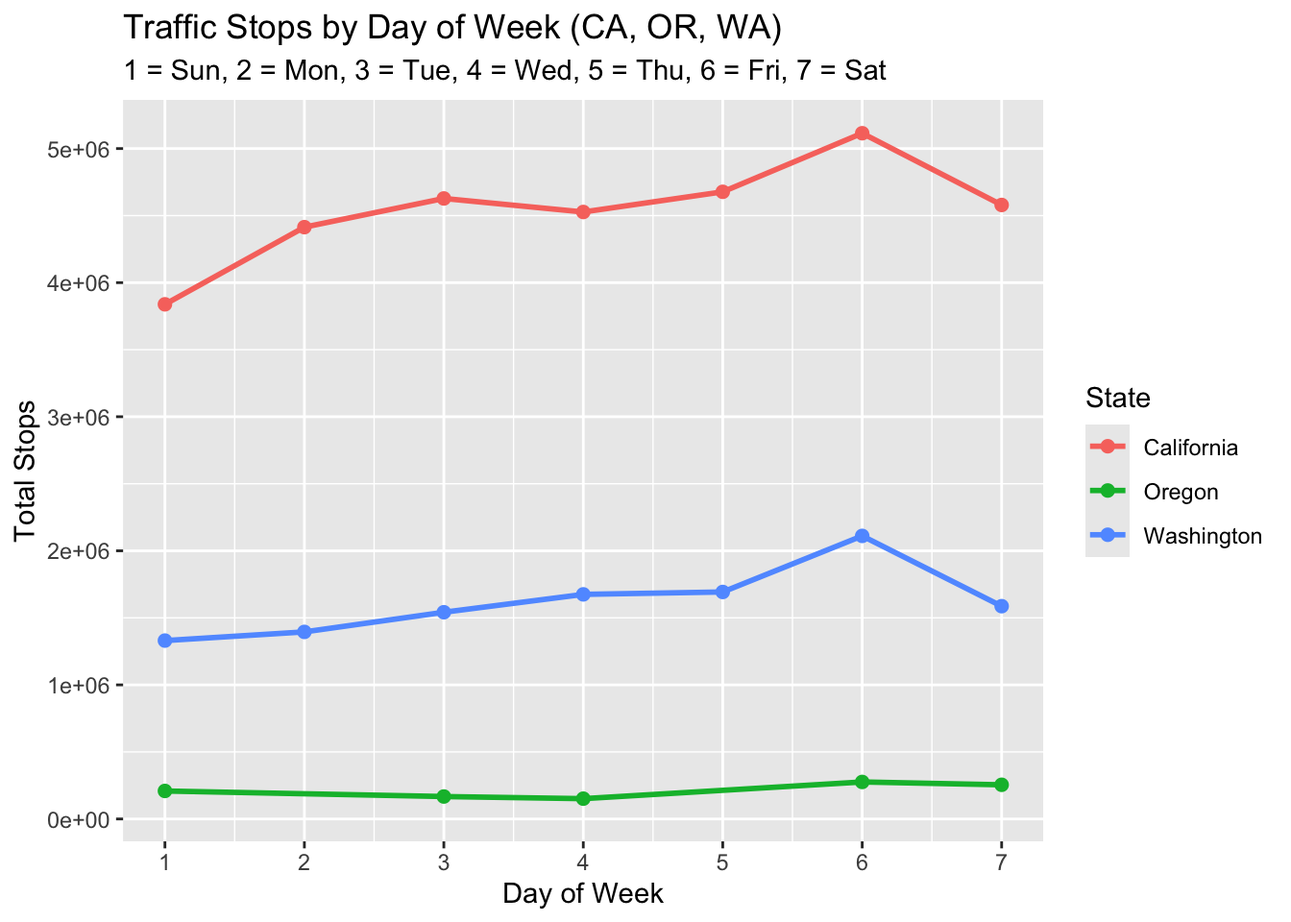
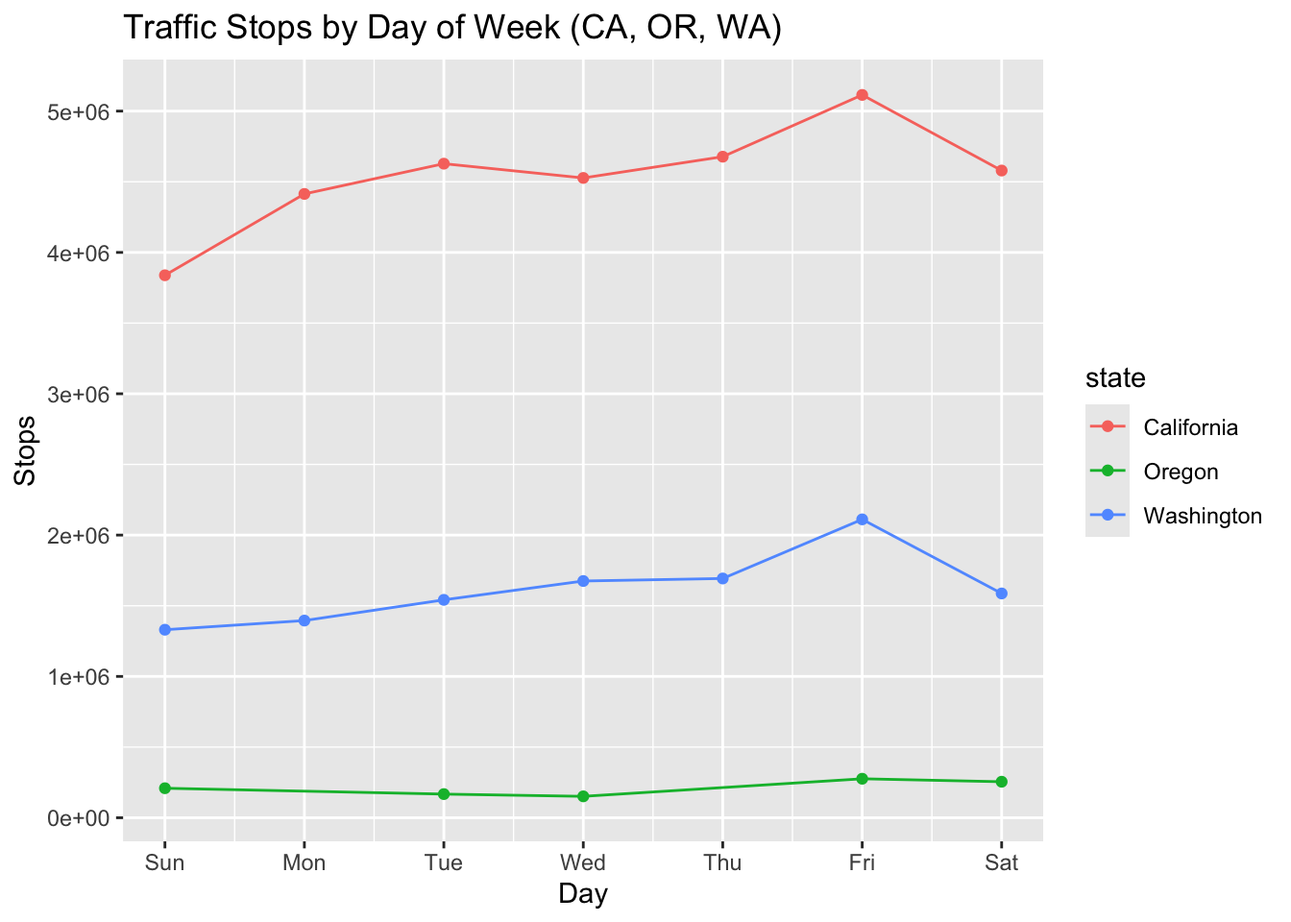
f

diff --git a/docs/traffic_stops.html b/docs/traffic_stops.html
@@ -77,7 +77,7 @@ pre > code.sourceCode > span > a:first-child::before { text-decoration: underlin
 <link href="site_libs/quarto-html/quarto-syntax-highlighting-ea1d7ac60288e0f1efdbc993fd8432ae.css" rel="stylesheet" id="quarto-text-highlighting-styles">
 <script src="site_libs/bootstrap/bootstrap.min.js"></script>
 <link href="site_libs/bootstrap/bootstrap-icons.css" rel="stylesheet">
-<link href="site_libs/bootstrap/bootstrap-5b8f9b2f3cffee265242a5d44fbb1e00.min.css" rel="stylesheet" append-hash="true" id="quarto-bootstrap" data-mode="light">
+<link href="site_libs/bootstrap/bootstrap-f93c2b1f3f0577f377aefa4848a86a36.min.css" rel="stylesheet" append-hash="true" id="quarto-bootstrap" data-mode="light">
 <script id="quarto-search-options" type="application/json">{
   "location": "navbar",
   "copy-button": false,
@@ -229,6 +229,7 @@ pre > code.sourceCode > span > a:first-child::before { text-decoration: underlin
 <span id="cb2-6"><a href="#cb2-6" aria-hidden="true" tabindex="-1"></a>  <span class="at">password =</span> <span class="fu">Sys.getenv</span>(<span class="st">"TRAFFIC_PWD"</span>)</span>
 <span id="cb2-7"><a href="#cb2-7" aria-hidden="true" tabindex="-1"></a>)</span></code></pre></div><button title="Copy to Clipboard" class="code-copy-button"><i class="bi"></i></button></div>
 </div>
+<p>First, we print a list of all available tables in this data set so we can choose which ones to analyse</p>
 <div class="cell">
 <div class="code-copy-outer-scaffold"><div class="sourceCode cell-code" id="cb3"><pre class="sourceCode r code-with-copy"><code class="sourceCode r"><span id="cb3-1"><a href="#cb3-1" aria-hidden="true" tabindex="-1"></a>DBI<span class="sc">::</span><span class="fu">dbListTables</span>(con_traffic)</span></code></pre></div><button title="Copy to Clipboard" class="code-copy-button"><i class="bi"></i></button></div>
 <div class="cell-output cell-output-stdout">
@@ -1010,56 +1011,47 @@ pre > code.sourceCode > span > a:first-child::before { text-decoration: underlin
 </table>
 </div>
 </div>
-<p>With all of this information, we now need to join these 3 tables so we can do our west coast analysis.</p>
+<p>With all of this information, we now need to union these 3 tables so we can do our west coast analysis.</p>
 <div class="cell" data-output.var="ca_or_wa_weekday">
-<div class="code-copy-outer-scaffold"><div class="sourceCode cell-code" id="cb11"><pre class="sourceCode sql code-with-copy"><code class="sourceCode sql"><span id="cb11-1"><a href="#cb11-1" aria-hidden="true" tabindex="-1"></a>  <span class="kw">SELECT</span></span>
-<span id="cb11-2"><a href="#cb11-2" aria-hidden="true" tabindex="-1"></a>      <span class="st">'California'</span> <span class="kw">AS</span> state,</span>
-<span id="cb11-3"><a href="#cb11-3" aria-hidden="true" tabindex="-1"></a>      DAYOFWEEK(<span class="dt">date</span>) <span class="kw">AS</span> weekday,</span>
-<span id="cb11-4"><a href="#cb11-4" aria-hidden="true" tabindex="-1"></a>      <span class="fu">COUNT</span>(<span class="op">*</span>) <span class="kw">AS</span> total_stops</span>
-<span id="cb11-5"><a href="#cb11-5" aria-hidden="true" tabindex="-1"></a>  <span class="kw">FROM</span> ca_statewide_2023_01_26</span>
-<span id="cb11-6"><a href="#cb11-6" aria-hidden="true" tabindex="-1"></a>  <span class="kw">WHERE</span> <span class="kw">type</span> <span class="op">=</span> <span class="st">'vehicular'</span></span>
-<span id="cb11-7"><a href="#cb11-7" aria-hidden="true" tabindex="-1"></a>  <span class="kw">GROUP</span> <span class="kw">BY</span> state, DAYOFWEEK(<span class="dt">date</span>)</span>
-<span id="cb11-8"><a href="#cb11-8" aria-hidden="true" tabindex="-1"></a></span>
-<span id="cb11-9"><a href="#cb11-9" aria-hidden="true" tabindex="-1"></a>  <span class="kw">UNION</span> <span class="kw">ALL</span></span>
-<span id="cb11-10"><a href="#cb11-10" aria-hidden="true" tabindex="-1"></a></span>
-<span id="cb11-11"><a href="#cb11-11" aria-hidden="true" tabindex="-1"></a>  <span class="kw">SELECT</span></span>
-<span id="cb11-12"><a href="#cb11-12" aria-hidden="true" tabindex="-1"></a>      <span class="st">'Oregon'</span> <span class="kw">AS</span> state,</span>
-<span id="cb11-13"><a href="#cb11-13" aria-hidden="true" tabindex="-1"></a>      DAYOFWEEK(<span class="dt">date</span>) <span class="kw">AS</span> weekday,</span>
-<span id="cb11-14"><a href="#cb11-14" aria-hidden="true" tabindex="-1"></a>      <span class="fu">COUNT</span>(<span class="op">*</span>) <span class="kw">AS</span> total_stops</span>
-<span id="cb11-15"><a href="#cb11-15" aria-hidden="true" tabindex="-1"></a>  <span class="kw">FROM</span> or_statewide_2020_04_01</span>
-<span id="cb11-16"><a href="#cb11-16" aria-hidden="true" tabindex="-1"></a>  <span class="kw">WHERE</span> <span class="kw">type</span> <span class="op">=</span> <span class="st">'vehicular'</span></span>
-<span id="cb11-17"><a href="#cb11-17" aria-hidden="true" tabindex="-1"></a>  <span class="kw">GROUP</span> <span class="kw">BY</span> state, DAYOFWEEK(<span class="dt">date</span>)</span>
-<span id="cb11-18"><a href="#cb11-18" aria-hidden="true" tabindex="-1"></a></span>
-<span id="cb11-19"><a href="#cb11-19" aria-hidden="true" tabindex="-1"></a>  <span class="kw">UNION</span> <span class="kw">ALL</span></span>
-<span id="cb11-20"><a href="#cb11-20" aria-hidden="true" tabindex="-1"></a></span>
-<span id="cb11-21"><a href="#cb11-21" aria-hidden="true" tabindex="-1"></a>  <span class="kw">SELECT</span></span>
-<span id="cb11-22"><a href="#cb11-22" aria-hidden="true" tabindex="-1"></a>      <span class="st">'Washington'</span> <span class="kw">AS</span> state,</span>
-<span id="cb11-23"><a href="#cb11-23" aria-hidden="true" tabindex="-1"></a>      DAYOFWEEK(<span class="dt">date</span>) <span class="kw">AS</span> weekday,</span>
-<span id="cb11-24"><a href="#cb11-24" aria-hidden="true" tabindex="-1"></a>      <span class="fu">COUNT</span>(<span class="op">*</span>) <span class="kw">AS</span> total_stops</span>
-<span id="cb11-25"><a href="#cb11-25" aria-hidden="true" tabindex="-1"></a>  <span class="kw">FROM</span> wa_statewide_2020_04_01</span>
-<span id="cb11-26"><a href="#cb11-26" aria-hidden="true" tabindex="-1"></a>  <span class="kw">WHERE</span> <span class="kw">type</span> <span class="op">=</span> <span class="st">'vehicular'</span></span>
-<span id="cb11-27"><a href="#cb11-27" aria-hidden="true" tabindex="-1"></a>  <span class="kw">GROUP</span> <span class="kw">BY</span> state, DAYOFWEEK(<span class="dt">date</span>)</span>
-<span id="cb11-28"><a href="#cb11-28" aria-hidden="true" tabindex="-1"></a></span>
-<span id="cb11-29"><a href="#cb11-29" aria-hidden="true" tabindex="-1"></a>  <span class="kw">ORDER</span> <span class="kw">BY</span> weekday, state;</span></code></pre></div><button title="Copy to Clipboard" class="code-copy-button"><i class="bi"></i></button></div>
+<div class="code-copy-outer-scaffold"><div class="sourceCode cell-code" id="cb11"><pre class="sourceCode sql code-with-copy"><code class="sourceCode sql"><span id="cb11-1"><a href="#cb11-1" aria-hidden="true" tabindex="-1"></a><span class="kw">SELECT</span> <span class="st">'California'</span> <span class="kw">AS</span> state,</span>
+<span id="cb11-2"><a href="#cb11-2" aria-hidden="true" tabindex="-1"></a>       DAYOFWEEK(<span class="dt">date</span>) <span class="kw">AS</span> weekday,</span>
+<span id="cb11-3"><a href="#cb11-3" aria-hidden="true" tabindex="-1"></a>       <span class="fu">COUNT</span>(<span class="op">*</span>) <span class="kw">AS</span> total_stops</span>
+<span id="cb11-4"><a href="#cb11-4" aria-hidden="true" tabindex="-1"></a><span class="kw">FROM</span> ca_statewide_2023_01_26</span>
+<span id="cb11-5"><a href="#cb11-5" aria-hidden="true" tabindex="-1"></a><span class="kw">WHERE</span> <span class="kw">type</span> <span class="op">=</span> <span class="st">'vehicular'</span></span>
+<span id="cb11-6"><a href="#cb11-6" aria-hidden="true" tabindex="-1"></a><span class="kw">GROUP</span> <span class="kw">BY</span> weekday</span>
+<span id="cb11-7"><a href="#cb11-7" aria-hidden="true" tabindex="-1"></a></span>
+<span id="cb11-8"><a href="#cb11-8" aria-hidden="true" tabindex="-1"></a><span class="kw">UNION</span> <span class="kw">ALL</span></span>
+<span id="cb11-9"><a href="#cb11-9" aria-hidden="true" tabindex="-1"></a><span class="kw">SELECT</span> <span class="st">'Oregon'</span>,</span>
+<span id="cb11-10"><a href="#cb11-10" aria-hidden="true" tabindex="-1"></a>       DAYOFWEEK(<span class="dt">date</span>),</span>
+<span id="cb11-11"><a href="#cb11-11" aria-hidden="true" tabindex="-1"></a>       <span class="fu">COUNT</span>(<span class="op">*</span>)</span>
+<span id="cb11-12"><a href="#cb11-12" aria-hidden="true" tabindex="-1"></a><span class="kw">FROM</span> or_statewide_2020_04_01</span>
+<span id="cb11-13"><a href="#cb11-13" aria-hidden="true" tabindex="-1"></a><span class="kw">WHERE</span> <span class="kw">type</span> <span class="op">=</span> <span class="st">'vehicular'</span></span>
+<span id="cb11-14"><a href="#cb11-14" aria-hidden="true" tabindex="-1"></a><span class="kw">GROUP</span> <span class="kw">BY</span> DAYOFWEEK(<span class="dt">date</span>)</span>
+<span id="cb11-15"><a href="#cb11-15" aria-hidden="true" tabindex="-1"></a></span>
+<span id="cb11-16"><a href="#cb11-16" aria-hidden="true" tabindex="-1"></a><span class="kw">UNION</span> <span class="kw">ALL</span></span>
+<span id="cb11-17"><a href="#cb11-17" aria-hidden="true" tabindex="-1"></a><span class="kw">SELECT</span> <span class="st">'Washington'</span>,</span>
+<span id="cb11-18"><a href="#cb11-18" aria-hidden="true" tabindex="-1"></a>       DAYOFWEEK(<span class="dt">date</span>),</span>
+<span id="cb11-19"><a href="#cb11-19" aria-hidden="true" tabindex="-1"></a>       <span class="fu">COUNT</span>(<span class="op">*</span>)</span>
+<span id="cb11-20"><a href="#cb11-20" aria-hidden="true" tabindex="-1"></a><span class="kw">FROM</span> wa_statewide_2020_04_01</span>
+<span id="cb11-21"><a href="#cb11-21" aria-hidden="true" tabindex="-1"></a><span class="kw">WHERE</span> <span class="kw">type</span> <span class="op">=</span> <span class="st">'vehicular'</span></span>
+<span id="cb11-22"><a href="#cb11-22" aria-hidden="true" tabindex="-1"></a><span class="kw">GROUP</span> <span class="kw">BY</span> DAYOFWEEK(<span class="dt">date</span>)</span>
+<span id="cb11-23"><a href="#cb11-23" aria-hidden="true" tabindex="-1"></a></span>
+<span id="cb11-24"><a href="#cb11-24" aria-hidden="true" tabindex="-1"></a><span class="kw">ORDER</span> <span class="kw">BY</span> weekday, state;</span></code></pre></div><button title="Copy to Clipboard" class="code-copy-button"><i class="bi"></i></button></div>
 </div>
 <p>Now, we can plot this information!</p>
 <div class="cell">
 <div class="code-copy-outer-scaffold"><div class="sourceCode cell-code" id="cb12"><pre class="sourceCode r code-with-copy"><code class="sourceCode r"><span id="cb12-1"><a href="#cb12-1" aria-hidden="true" tabindex="-1"></a><span class="fu">library</span>(ggplot2)</span>
 <span id="cb12-2"><a href="#cb12-2" aria-hidden="true" tabindex="-1"></a></span>
-<span id="cb12-3"><a href="#cb12-3" aria-hidden="true" tabindex="-1"></a><span class="fu">ggplot</span>(</span>
-<span id="cb12-4"><a href="#cb12-4" aria-hidden="true" tabindex="-1"></a>  ca_or_wa_weekday,</span>
-<span id="cb12-5"><a href="#cb12-5" aria-hidden="true" tabindex="-1"></a>  <span class="fu">aes</span>(<span class="at">x =</span> weekday, <span class="at">y =</span> total_stops, <span class="at">color =</span> state, <span class="at">group =</span> state)</span>
-<span id="cb12-6"><a href="#cb12-6" aria-hidden="true" tabindex="-1"></a>) <span class="sc">+</span></span>
-<span id="cb12-7"><a href="#cb12-7" aria-hidden="true" tabindex="-1"></a>  <span class="fu">geom_line</span>(<span class="at">linewidth =</span> <span class="dv">1</span>) <span class="sc">+</span></span>
-<span id="cb12-8"><a href="#cb12-8" aria-hidden="true" tabindex="-1"></a>  <span class="fu">geom_point</span>(<span class="at">size =</span> <span class="dv">2</span>) <span class="sc">+</span></span>
-<span id="cb12-9"><a href="#cb12-9" aria-hidden="true" tabindex="-1"></a>  <span class="fu">scale_x_continuous</span>(<span class="at">breaks =</span> <span class="dv">1</span><span class="sc">:</span><span class="dv">7</span>)<span class="sc">+</span></span>
-<span id="cb12-10"><a href="#cb12-10" aria-hidden="true" tabindex="-1"></a>  <span class="fu">labs</span>(</span>
-<span id="cb12-11"><a href="#cb12-11" aria-hidden="true" tabindex="-1"></a>    <span class="at">title =</span> <span class="st">"Traffic Stops by Day of Week (CA, OR, WA)"</span>,</span>
-<span id="cb12-12"><a href="#cb12-12" aria-hidden="true" tabindex="-1"></a>        <span class="at">subtitle =</span> <span class="st">"1 = Sun, 2 = Mon, 3 = Tue, 4 = Wed, 5 = Thu, 6 = Fri, 7 = Sat"</span>,</span>
-<span id="cb12-13"><a href="#cb12-13" aria-hidden="true" tabindex="-1"></a>    <span class="at">x =</span> <span class="st">"Day of Week"</span>,</span>
-<span id="cb12-14"><a href="#cb12-14" aria-hidden="true" tabindex="-1"></a>    <span class="at">y =</span> <span class="st">"Total Stops"</span>,</span>
-<span id="cb12-15"><a href="#cb12-15" aria-hidden="true" tabindex="-1"></a>    <span class="at">color =</span> <span class="st">"State"</span></span>
-<span id="cb12-16"><a href="#cb12-16" aria-hidden="true" tabindex="-1"></a>  )</span></code></pre></div><button title="Copy to Clipboard" class="code-copy-button"><i class="bi"></i></button></div>
+<span id="cb12-3"><a href="#cb12-3" aria-hidden="true" tabindex="-1"></a><span class="fu">ggplot</span>(ca_or_wa_weekday, <span class="fu">aes</span>(weekday, total_stops, <span class="at">color =</span> state)) <span class="sc">+</span></span>
+<span id="cb12-4"><a href="#cb12-4" aria-hidden="true" tabindex="-1"></a>  <span class="fu">geom_line</span>() <span class="sc">+</span></span>
+<span id="cb12-5"><a href="#cb12-5" aria-hidden="true" tabindex="-1"></a>  <span class="fu">geom_point</span>() <span class="sc">+</span></span>
+<span id="cb12-6"><a href="#cb12-6" aria-hidden="true" tabindex="-1"></a>  <span class="fu">scale_x_continuous</span>(<span class="at">breaks =</span> <span class="dv">1</span><span class="sc">:</span><span class="dv">7</span>,</span>
+<span id="cb12-7"><a href="#cb12-7" aria-hidden="true" tabindex="-1"></a>                     <span class="at">labels =</span> <span class="fu">c</span>(<span class="st">"Sun"</span>,<span class="st">"Mon"</span>,<span class="st">"Tue"</span>,<span class="st">"Wed"</span>,<span class="st">"Thu"</span>,<span class="st">"Fri"</span>,<span class="st">"Sat"</span>)) <span class="sc">+</span></span>
+<span id="cb12-8"><a href="#cb12-8" aria-hidden="true" tabindex="-1"></a>  <span class="fu">labs</span>(</span>
+<span id="cb12-9"><a href="#cb12-9" aria-hidden="true" tabindex="-1"></a>    <span class="at">title =</span> <span class="st">"Traffic Stops by Day of Week (CA, OR, WA)"</span>,</span>
+<span id="cb12-10"><a href="#cb12-10" aria-hidden="true" tabindex="-1"></a>    <span class="at">x =</span> <span class="st">"Day"</span>,</span>
+<span id="cb12-11"><a href="#cb12-11" aria-hidden="true" tabindex="-1"></a>    <span class="at">y =</span> <span class="st">"Stops"</span></span>
+<span id="cb12-12"><a href="#cb12-12" aria-hidden="true" tabindex="-1"></a>  )</span></code></pre></div><button title="Copy to Clipboard" class="code-copy-button"><i class="bi"></i></button></div>
 <div class="cell-output-display">
 <div>
 <figure class="figure">
@@ -1069,78 +1061,54 @@ pre > code.sourceCode > span > a:first-child::before { text-decoration: underlin
 </div>
 </div>
 <p>As expected (and this is true for all states considered), out of all weekdays, Friday has the highest traffic stops by enforcement agents. This might be because people drive more on Fridays since not only do they go to work, but also go home and then go to other places for leisure. It is hard to say that there is a similar trend going on the other way that is true for all states though (meaning, the day of the week with the lowest traffic stops by enforcement agents!) as there is more variability in this scenario.</p>
-<p>Now that we have information on the days of the week, let’s be even more precise: what are the most common violations that happen during fridays across these states? Unfortunately, the variable “violations” is only present in the tables for Washignton and California, so we can’t use Oregon here.</p>
-<p>First, we need to once more join the tables.</p>
+<p>Now that we have information on the days of the week, let’s be even more precise: what are the most common violations that happen during fridays across these states? Unfortunately, the variable “violations” is only present in the tables for Washignton and California, so we can’t use Oregon here. Furthermore, combining Washington and California keeps crashing my computer, so let’s focus on just California instead!</p>
+<p>First, we need to once more union the tables and also find the top 5 violations on fridays.</p>
 <div class="cell" data-output.var="friday_violations">
-<div class="code-copy-outer-scaffold"><div class="sourceCode cell-code" id="cb13"><pre class="sourceCode sql code-with-copy"><code class="sourceCode sql"><span id="cb13-1"><a href="#cb13-1" aria-hidden="true" tabindex="-1"></a>  <span class="kw">SELECT</span></span>
-<span id="cb13-2"><a href="#cb13-2" aria-hidden="true" tabindex="-1"></a>      state,</span>
-<span id="cb13-3"><a href="#cb13-3" aria-hidden="true" tabindex="-1"></a>      violation,</span>
-<span id="cb13-4"><a href="#cb13-4" aria-hidden="true" tabindex="-1"></a>      <span class="fu">COUNT</span>(<span class="op">*</span>) <span class="kw">AS</span> total_violations</span>
-<span id="cb13-5"><a href="#cb13-5" aria-hidden="true" tabindex="-1"></a>  <span class="kw">FROM</span> (</span>
-<span id="cb13-6"><a href="#cb13-6" aria-hidden="true" tabindex="-1"></a>      <span class="kw">SELECT</span> </span>
-<span id="cb13-7"><a href="#cb13-7" aria-hidden="true" tabindex="-1"></a>          <span class="st">'California'</span> <span class="kw">AS</span> state,</span>
-<span id="cb13-8"><a href="#cb13-8" aria-hidden="true" tabindex="-1"></a>          violation,</span>
-<span id="cb13-9"><a href="#cb13-9" aria-hidden="true" tabindex="-1"></a>          <span class="dt">date</span></span>
-<span id="cb13-10"><a href="#cb13-10" aria-hidden="true" tabindex="-1"></a>      <span class="kw">FROM</span> ca_statewide_2023_01_26</span>
-<span id="cb13-11"><a href="#cb13-11" aria-hidden="true" tabindex="-1"></a>      <span class="kw">WHERE</span> violation <span class="kw">IS</span> <span class="kw">NOT</span> <span class="kw">NULL</span> </span>
-<span id="cb13-12"><a href="#cb13-12" aria-hidden="true" tabindex="-1"></a></span>
-<span id="cb13-13"><a href="#cb13-13" aria-hidden="true" tabindex="-1"></a>      <span class="kw">UNION</span> <span class="kw">ALL</span></span>
-<span id="cb13-14"><a href="#cb13-14" aria-hidden="true" tabindex="-1"></a></span>
-<span id="cb13-15"><a href="#cb13-15" aria-hidden="true" tabindex="-1"></a>      <span class="kw">SELECT</span> </span>
-<span id="cb13-16"><a href="#cb13-16" aria-hidden="true" tabindex="-1"></a>          <span class="st">'Washington'</span> <span class="kw">AS</span> state,</span>
-<span id="cb13-17"><a href="#cb13-17" aria-hidden="true" tabindex="-1"></a>          violation,</span>
-<span id="cb13-18"><a href="#cb13-18" aria-hidden="true" tabindex="-1"></a>          <span class="dt">date</span></span>
-<span id="cb13-19"><a href="#cb13-19" aria-hidden="true" tabindex="-1"></a>      <span class="kw">FROM</span> wa_statewide_2020_04_01</span>
-<span id="cb13-20"><a href="#cb13-20" aria-hidden="true" tabindex="-1"></a>      <span class="kw">WHERE</span> violation <span class="kw">IS</span> <span class="kw">NOT</span> <span class="kw">NULL</span> </span>
-<span id="cb13-21"><a href="#cb13-21" aria-hidden="true" tabindex="-1"></a>  ) <span class="kw">AS</span> combined</span>
-<span id="cb13-22"><a href="#cb13-22" aria-hidden="true" tabindex="-1"></a>  <span class="kw">WHERE</span> DAYOFWEEK(<span class="dt">date</span>) <span class="op">=</span> <span class="dv">6</span></span>
-<span id="cb13-23"><a href="#cb13-23" aria-hidden="true" tabindex="-1"></a>  <span class="kw">GROUP</span> <span class="kw">BY</span> state, violation</span>
-<span id="cb13-24"><a href="#cb13-24" aria-hidden="true" tabindex="-1"></a>  <span class="kw">ORDER</span> <span class="kw">BY</span> state, total_violations <span class="kw">DESC</span>;</span></code></pre></div><button title="Copy to Clipboard" class="code-copy-button"><i class="bi"></i></button></div>
-</div>
-<p>Creating the top 5 violations:</p>
-<div class="cell">
-<div class="code-copy-outer-scaffold"><div class="sourceCode cell-code" id="cb14"><pre class="sourceCode r code-with-copy"><code class="sourceCode r"><span id="cb14-1"><a href="#cb14-1" aria-hidden="true" tabindex="-1"></a>top5_friday_violations <span class="ot">&lt;-</span> friday_violations <span class="sc">|&gt;</span></span>
-<span id="cb14-2"><a href="#cb14-2" aria-hidden="true" tabindex="-1"></a>  <span class="fu">group_by</span>(state) <span class="sc">|&gt;</span></span>
-<span id="cb14-3"><a href="#cb14-3" aria-hidden="true" tabindex="-1"></a>  <span class="fu">arrange</span>(<span class="fu">desc</span>(total_violations)) <span class="sc">|&gt;</span></span>
-<span id="cb14-4"><a href="#cb14-4" aria-hidden="true" tabindex="-1"></a>  <span class="fu">slice_head</span>(<span class="at">n =</span> <span class="dv">5</span>)</span></code></pre></div><button title="Copy to Clipboard" class="code-copy-button"><i class="bi"></i></button></div>
+<div class="code-copy-outer-scaffold"><div class="sourceCode cell-code" id="cb13"><pre class="sourceCode sql code-with-copy"><code class="sourceCode sql"><span id="cb13-1"><a href="#cb13-1" aria-hidden="true" tabindex="-1"></a><span class="kw">SELECT</span></span>
+<span id="cb13-2"><a href="#cb13-2" aria-hidden="true" tabindex="-1"></a>    <span class="st">'California'</span> <span class="kw">AS</span> state,</span>
+<span id="cb13-3"><a href="#cb13-3" aria-hidden="true" tabindex="-1"></a>    violation,</span>
+<span id="cb13-4"><a href="#cb13-4" aria-hidden="true" tabindex="-1"></a>    <span class="fu">COUNT</span>(<span class="op">*</span>) <span class="kw">AS</span> total_violations</span>
+<span id="cb13-5"><a href="#cb13-5" aria-hidden="true" tabindex="-1"></a><span class="kw">FROM</span> ca_statewide_2023_01_26</span>
+<span id="cb13-6"><a href="#cb13-6" aria-hidden="true" tabindex="-1"></a><span class="kw">WHERE</span> violation <span class="kw">IS</span> <span class="kw">NOT</span> <span class="kw">NULL</span></span>
+<span id="cb13-7"><a href="#cb13-7" aria-hidden="true" tabindex="-1"></a>  <span class="kw">AND</span> DAYOFWEEK(<span class="dt">date</span>) <span class="op">=</span> <span class="dv">6</span></span>
+<span id="cb13-8"><a href="#cb13-8" aria-hidden="true" tabindex="-1"></a><span class="kw">GROUP</span> <span class="kw">BY</span> violation</span>
+<span id="cb13-9"><a href="#cb13-9" aria-hidden="true" tabindex="-1"></a><span class="kw">ORDER</span> <span class="kw">BY</span> total_violations <span class="kw">DESC</span></span>
+<span id="cb13-10"><a href="#cb13-10" aria-hidden="true" tabindex="-1"></a><span class="kw">LIMIT</span> <span class="dv">0</span>,<span class="dv">5</span>;</span></code></pre></div><button title="Copy to Clipboard" class="code-copy-button"><i class="bi"></i></button></div>
 </div>
 <p>Now plotting!</p>
 <div class="cell">
-<div class="code-copy-outer-scaffold"><div class="sourceCode cell-code" id="cb15"><pre class="sourceCode r code-with-copy"><code class="sourceCode r"><span id="cb15-1"><a href="#cb15-1" aria-hidden="true" tabindex="-1"></a><span class="fu">library</span>(dplyr)</span>
-<span id="cb15-2"><a href="#cb15-2" aria-hidden="true" tabindex="-1"></a><span class="fu">library</span>(ggplot2)</span>
-<span id="cb15-3"><a href="#cb15-3" aria-hidden="true" tabindex="-1"></a></span>
-<span id="cb15-4"><a href="#cb15-4" aria-hidden="true" tabindex="-1"></a>ordered_df <span class="ot">&lt;-</span> top5_friday_violations <span class="sc">|&gt;</span></span>
-<span id="cb15-5"><a href="#cb15-5" aria-hidden="true" tabindex="-1"></a>  <span class="fu">mutate</span>(</span>
-<span id="cb15-6"><a href="#cb15-6" aria-hidden="true" tabindex="-1"></a>    <span class="at">state =</span> <span class="fu">factor</span>(state, <span class="at">levels =</span> <span class="fu">c</span>(<span class="st">"California"</span>, <span class="st">"Washington"</span>)),</span>
-<span id="cb15-7"><a href="#cb15-7" aria-hidden="true" tabindex="-1"></a>    <span class="at">violation =</span> <span class="fu">reorder</span>(violation, total_violations)</span>
-<span id="cb15-8"><a href="#cb15-8" aria-hidden="true" tabindex="-1"></a>  )</span>
-<span id="cb15-9"><a href="#cb15-9" aria-hidden="true" tabindex="-1"></a><span class="fu">ggplot</span>(</span>
-<span id="cb15-10"><a href="#cb15-10" aria-hidden="true" tabindex="-1"></a>  ordered_df,</span>
-<span id="cb15-11"><a href="#cb15-11" aria-hidden="true" tabindex="-1"></a>  <span class="fu">aes</span>(</span>
-<span id="cb15-12"><a href="#cb15-12" aria-hidden="true" tabindex="-1"></a>    <span class="at">x =</span> total_violations,</span>
-<span id="cb15-13"><a href="#cb15-13" aria-hidden="true" tabindex="-1"></a>    <span class="at">y =</span> violation,</span>
-<span id="cb15-14"><a href="#cb15-14" aria-hidden="true" tabindex="-1"></a>    <span class="at">fill =</span> state</span>
-<span id="cb15-15"><a href="#cb15-15" aria-hidden="true" tabindex="-1"></a>  )</span>
-<span id="cb15-16"><a href="#cb15-16" aria-hidden="true" tabindex="-1"></a>) <span class="sc">+</span></span>
-<span id="cb15-17"><a href="#cb15-17" aria-hidden="true" tabindex="-1"></a>  <span class="fu">geom_col</span>(<span class="at">position =</span> <span class="st">"dodge"</span>) <span class="sc">+</span></span>
-<span id="cb15-18"><a href="#cb15-18" aria-hidden="true" tabindex="-1"></a>  <span class="fu">labs</span>(</span>
-<span id="cb15-19"><a href="#cb15-19" aria-hidden="true" tabindex="-1"></a>    <span class="at">title =</span> <span class="st">"Top 5 friday violations by state (CA and WA)"</span>,</span>
-<span id="cb15-20"><a href="#cb15-20" aria-hidden="true" tabindex="-1"></a>    <span class="at">x =</span> <span class="st">"Total Violations"</span>,</span>
-<span id="cb15-21"><a href="#cb15-21" aria-hidden="true" tabindex="-1"></a>    <span class="at">y =</span> <span class="st">"Violation"</span>,</span>
-<span id="cb15-22"><a href="#cb15-22" aria-hidden="true" tabindex="-1"></a>    <span class="at">fill =</span> <span class="st">"State"</span></span>
-<span id="cb15-23"><a href="#cb15-23" aria-hidden="true" tabindex="-1"></a>  ) </span></code></pre></div><button title="Copy to Clipboard" class="code-copy-button"><i class="bi"></i></button></div>
+<div class="code-copy-outer-scaffold"><div class="sourceCode cell-code" id="cb14"><pre class="sourceCode r code-with-copy"><code class="sourceCode r"><span id="cb14-1"><a href="#cb14-1" aria-hidden="true" tabindex="-1"></a><span class="fu">library</span>(dplyr)</span>
+<span id="cb14-2"><a href="#cb14-2" aria-hidden="true" tabindex="-1"></a><span class="fu">library</span>(ggplot2)</span>
+<span id="cb14-3"><a href="#cb14-3" aria-hidden="true" tabindex="-1"></a>ordered_df <span class="ot">&lt;-</span> friday_violations <span class="sc">|&gt;</span></span>
+<span id="cb14-4"><a href="#cb14-4" aria-hidden="true" tabindex="-1"></a>  <span class="fu">mutate</span>(</span>
+<span id="cb14-5"><a href="#cb14-5" aria-hidden="true" tabindex="-1"></a>    <span class="at">violation =</span> <span class="fu">reorder</span>(violation, total_violations)</span>
+<span id="cb14-6"><a href="#cb14-6" aria-hidden="true" tabindex="-1"></a>  )</span>
+<span id="cb14-7"><a href="#cb14-7" aria-hidden="true" tabindex="-1"></a></span>
+<span id="cb14-8"><a href="#cb14-8" aria-hidden="true" tabindex="-1"></a><span class="fu">ggplot</span>(</span>
+<span id="cb14-9"><a href="#cb14-9" aria-hidden="true" tabindex="-1"></a>  ordered_df,</span>
+<span id="cb14-10"><a href="#cb14-10" aria-hidden="true" tabindex="-1"></a>  <span class="fu">aes</span>(</span>
+<span id="cb14-11"><a href="#cb14-11" aria-hidden="true" tabindex="-1"></a>    <span class="at">x =</span> total_violations,</span>
+<span id="cb14-12"><a href="#cb14-12" aria-hidden="true" tabindex="-1"></a>    <span class="at">y =</span> violation</span>
+<span id="cb14-13"><a href="#cb14-13" aria-hidden="true" tabindex="-1"></a>  )</span>
+<span id="cb14-14"><a href="#cb14-14" aria-hidden="true" tabindex="-1"></a>) <span class="sc">+</span></span>
+<span id="cb14-15"><a href="#cb14-15" aria-hidden="true" tabindex="-1"></a>  <span class="fu">geom_col</span>(<span class="at">fill =</span> <span class="st">"red"</span>) <span class="sc">+</span></span>
+<span id="cb14-16"><a href="#cb14-16" aria-hidden="true" tabindex="-1"></a>  <span class="fu">labs</span>(</span>
+<span id="cb14-17"><a href="#cb14-17" aria-hidden="true" tabindex="-1"></a>    <span class="at">title =</span> <span class="st">"Top 5 Friday Violations in California"</span>,</span>
+<span id="cb14-18"><a href="#cb14-18" aria-hidden="true" tabindex="-1"></a>    <span class="at">x =</span> <span class="st">"Total Violations"</span>,</span>
+<span id="cb14-19"><a href="#cb14-19" aria-hidden="true" tabindex="-1"></a>    <span class="at">y =</span> <span class="st">"Violation"</span></span>
+<span id="cb14-20"><a href="#cb14-20" aria-hidden="true" tabindex="-1"></a>  )</span></code></pre></div><button title="Copy to Clipboard" class="code-copy-button"><i class="bi"></i></button></div>
 <div class="cell-output-display">
 <div>
 <figure class="figure">
-<p><img src="traffic_stops_files/figure-html/unnamed-chunk-14-1.png" class="img-fluid figure-img" width="672"></p>
+<p><img src="traffic_stops_files/figure-html/unnamed-chunk-13-1.png" class="img-fluid figure-img" width="672"></p>
 </figure>
 </div>
 </div>
 </div>
-<p>In both states, speed-related violations seem to be the most common, although California dominates it by far (possibly and substantially because of its much greater population). I would suppose part of the reason why however, in both states, speed-related violations are most common are in part because of people going to party at night and other forms of leisure. These factors can lead to more aggressive driving, higher average speeds, and therefore a greater frequency of speed-related stops. Another thing that was interesting to me is the difference in the types of violations between both states: California’s traffic violations seem to be of a more severe/of safety concern reason, whilst for Washington it has to do more with procedural violations (like not having your seatbelt on or your vehicle license!)</p>
-<p>To wrap up this project, let’s summarize what I did. I used SQL to query traffic data in all west coast states (not if you consider Alaska to be one though!). After doing this I summarized vehicular stops by traffic agents by the day of the week across all three states, and found that across them Fridays are the days with the highest vehicular stops by traffic aggents. Then, given the lack of data for Oregon, I focused on the most common violations that occurred in Fridays in both California and Washington, and noticed that the violations in California seem to be of a more safety-concern cause than in Washington, where a lot of violations were associated with procedural violations.</p>
+<p>In California, speed-related violations seem to be the most common. I would suppose part of the reason why however speed-related violations are most common are in part because of people going to party at night and other forms of leisure. These factors can lead to more aggressive driving, higher average speeds, and therefore a greater frequency of speed-related stops.</p>
+<p>To wrap up this project, let’s summarize what I did. I used SQL to query traffic data in all west coast states (not if you consider Alaska to be one though!). After doing this I summarized vehicular stops by traffic agents by the day of the week across all three states, and found that across them Fridays are the days with the highest vehicular stops by traffic aggents. Then, given the lack of data for Oregon, I focused on the most common violations that occurred in Fridays in California, and noticed that the violations in California seem to be of a more safety-concern cause than in Washington, where a lot of violations were associated with procedural violations.</p>
 <div class="cell">
-<div class="code-copy-outer-scaffold"><div class="sourceCode cell-code" id="cb16"><pre class="sourceCode r code-with-copy"><code class="sourceCode r"><span id="cb16-1"><a href="#cb16-1" aria-hidden="true" tabindex="-1"></a><span class="fu">dbDisconnect</span>(con_traffic)</span></code></pre></div><button title="Copy to Clipboard" class="code-copy-button"><i class="bi"></i></button></div>
+<div class="code-copy-outer-scaffold"><div class="sourceCode cell-code" id="cb15"><pre class="sourceCode r code-with-copy"><code class="sourceCode r"><span id="cb15-1"><a href="#cb15-1" aria-hidden="true" tabindex="-1"></a><span class="fu">dbDisconnect</span>(con_traffic, <span class="at">shutdown=</span><span class="cn">TRUE</span>)</span></code></pre></div><button title="Copy to Clipboard" class="code-copy-button"><i class="bi"></i></button></div>
 </div>
 <p><em>References</em></p>
 <p>Pierson, Emma, Camelia Simoiu, Jan Overgoor, Sam Corbett-Davies, Daniel Jenson, Amy Shoemaker, Vignesh Ramachandran, et al.&nbsp;2020. “A Large-Scale Analysis of Racial Disparities in Police Stops Across the United States.” Nature Human Behaviour, 1–10.</p>
